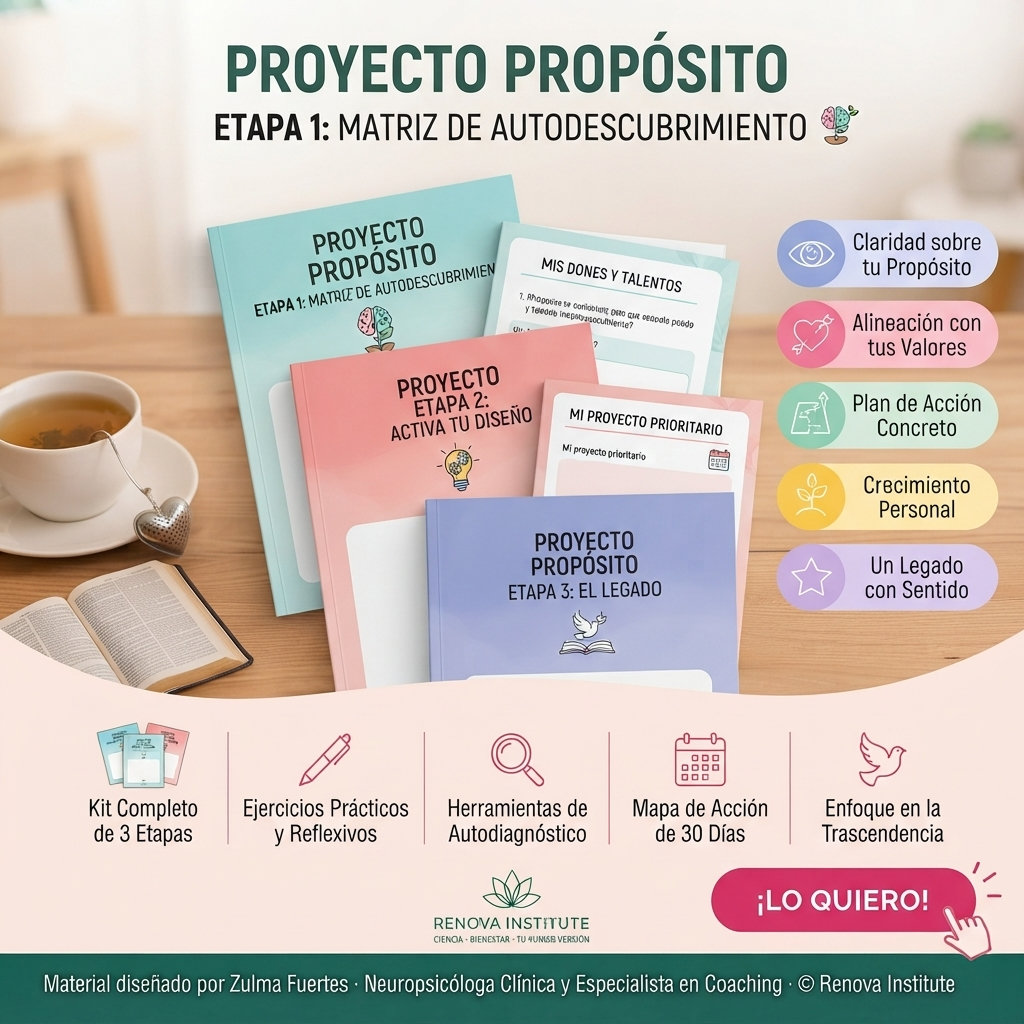
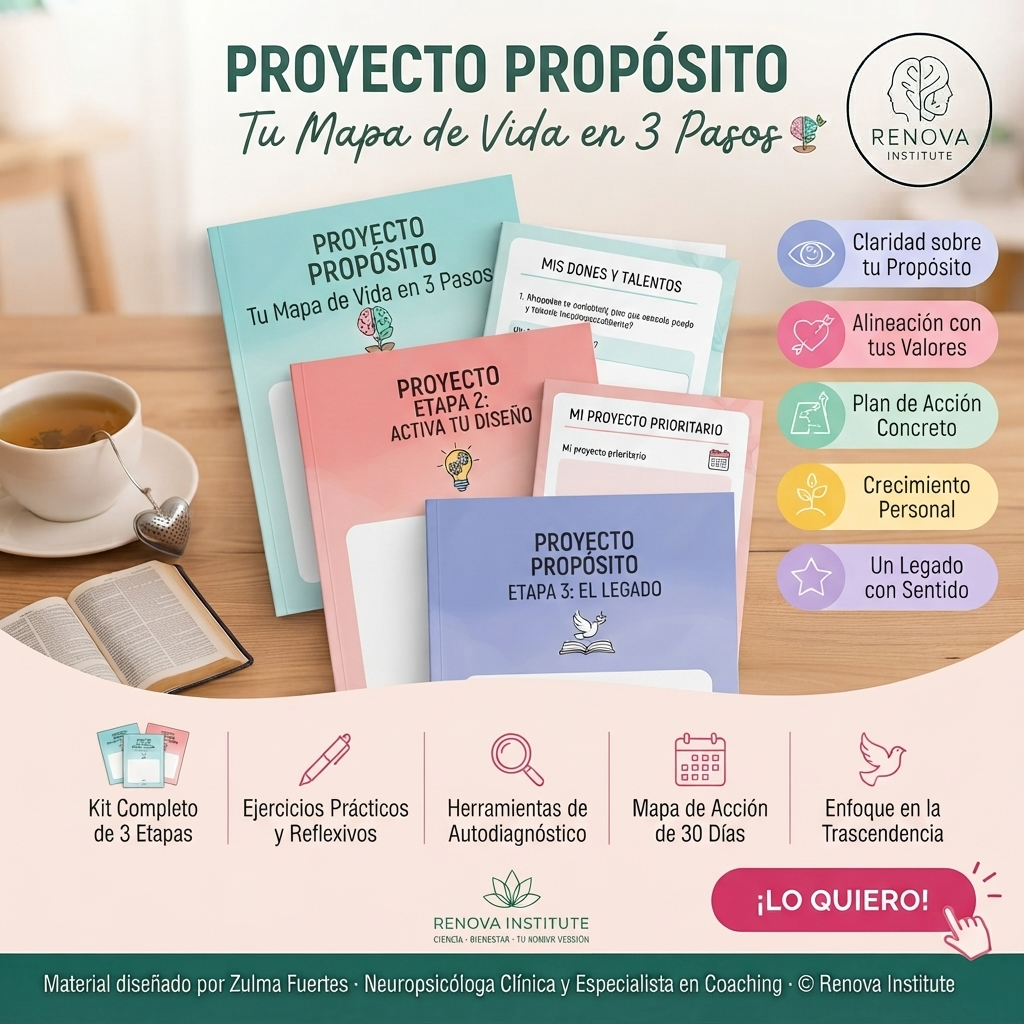
Cambio imagenes

diff --git a/Tienda.html b/Tienda.html
@@ -1232,7 +1232,7 @@
                     "precio": 80000,
                     "aprenderemos": "A identificar los dones, talentos y evidencias de gracia que ya posees.\n\nA desactivar las anclas mentales (miedo, procrastinación y culpa) que frenan tus iniciativas.\nA estructurar un plan de acción claro, medible y sostenible de 30 días.",
                     "lograremos": "Claridad absoluta sobre tu propósito y hacia dónde canalizar tu energía.\n\nTránsito efectivo de las ideas abstractas a proyectos concretos en el calendario.\nUna vida alineada con valores sólidos y un enfoque de legado a largo plazo.",
-                    "imagen": "images/Promocional (adultos mayores) para instagram.jpeg",
+                    "imagen": "images/Promocional kit propósito.jpg",
                     "metodologia": "Proceso estructurado en 3 fases (Descubrir ➔ Activar ➔ Trasciende), fundamentado en neuropsicología clínica, coaching e inteligencia emocional con ejercicios prácticos y reflexivos."
           },
           {
